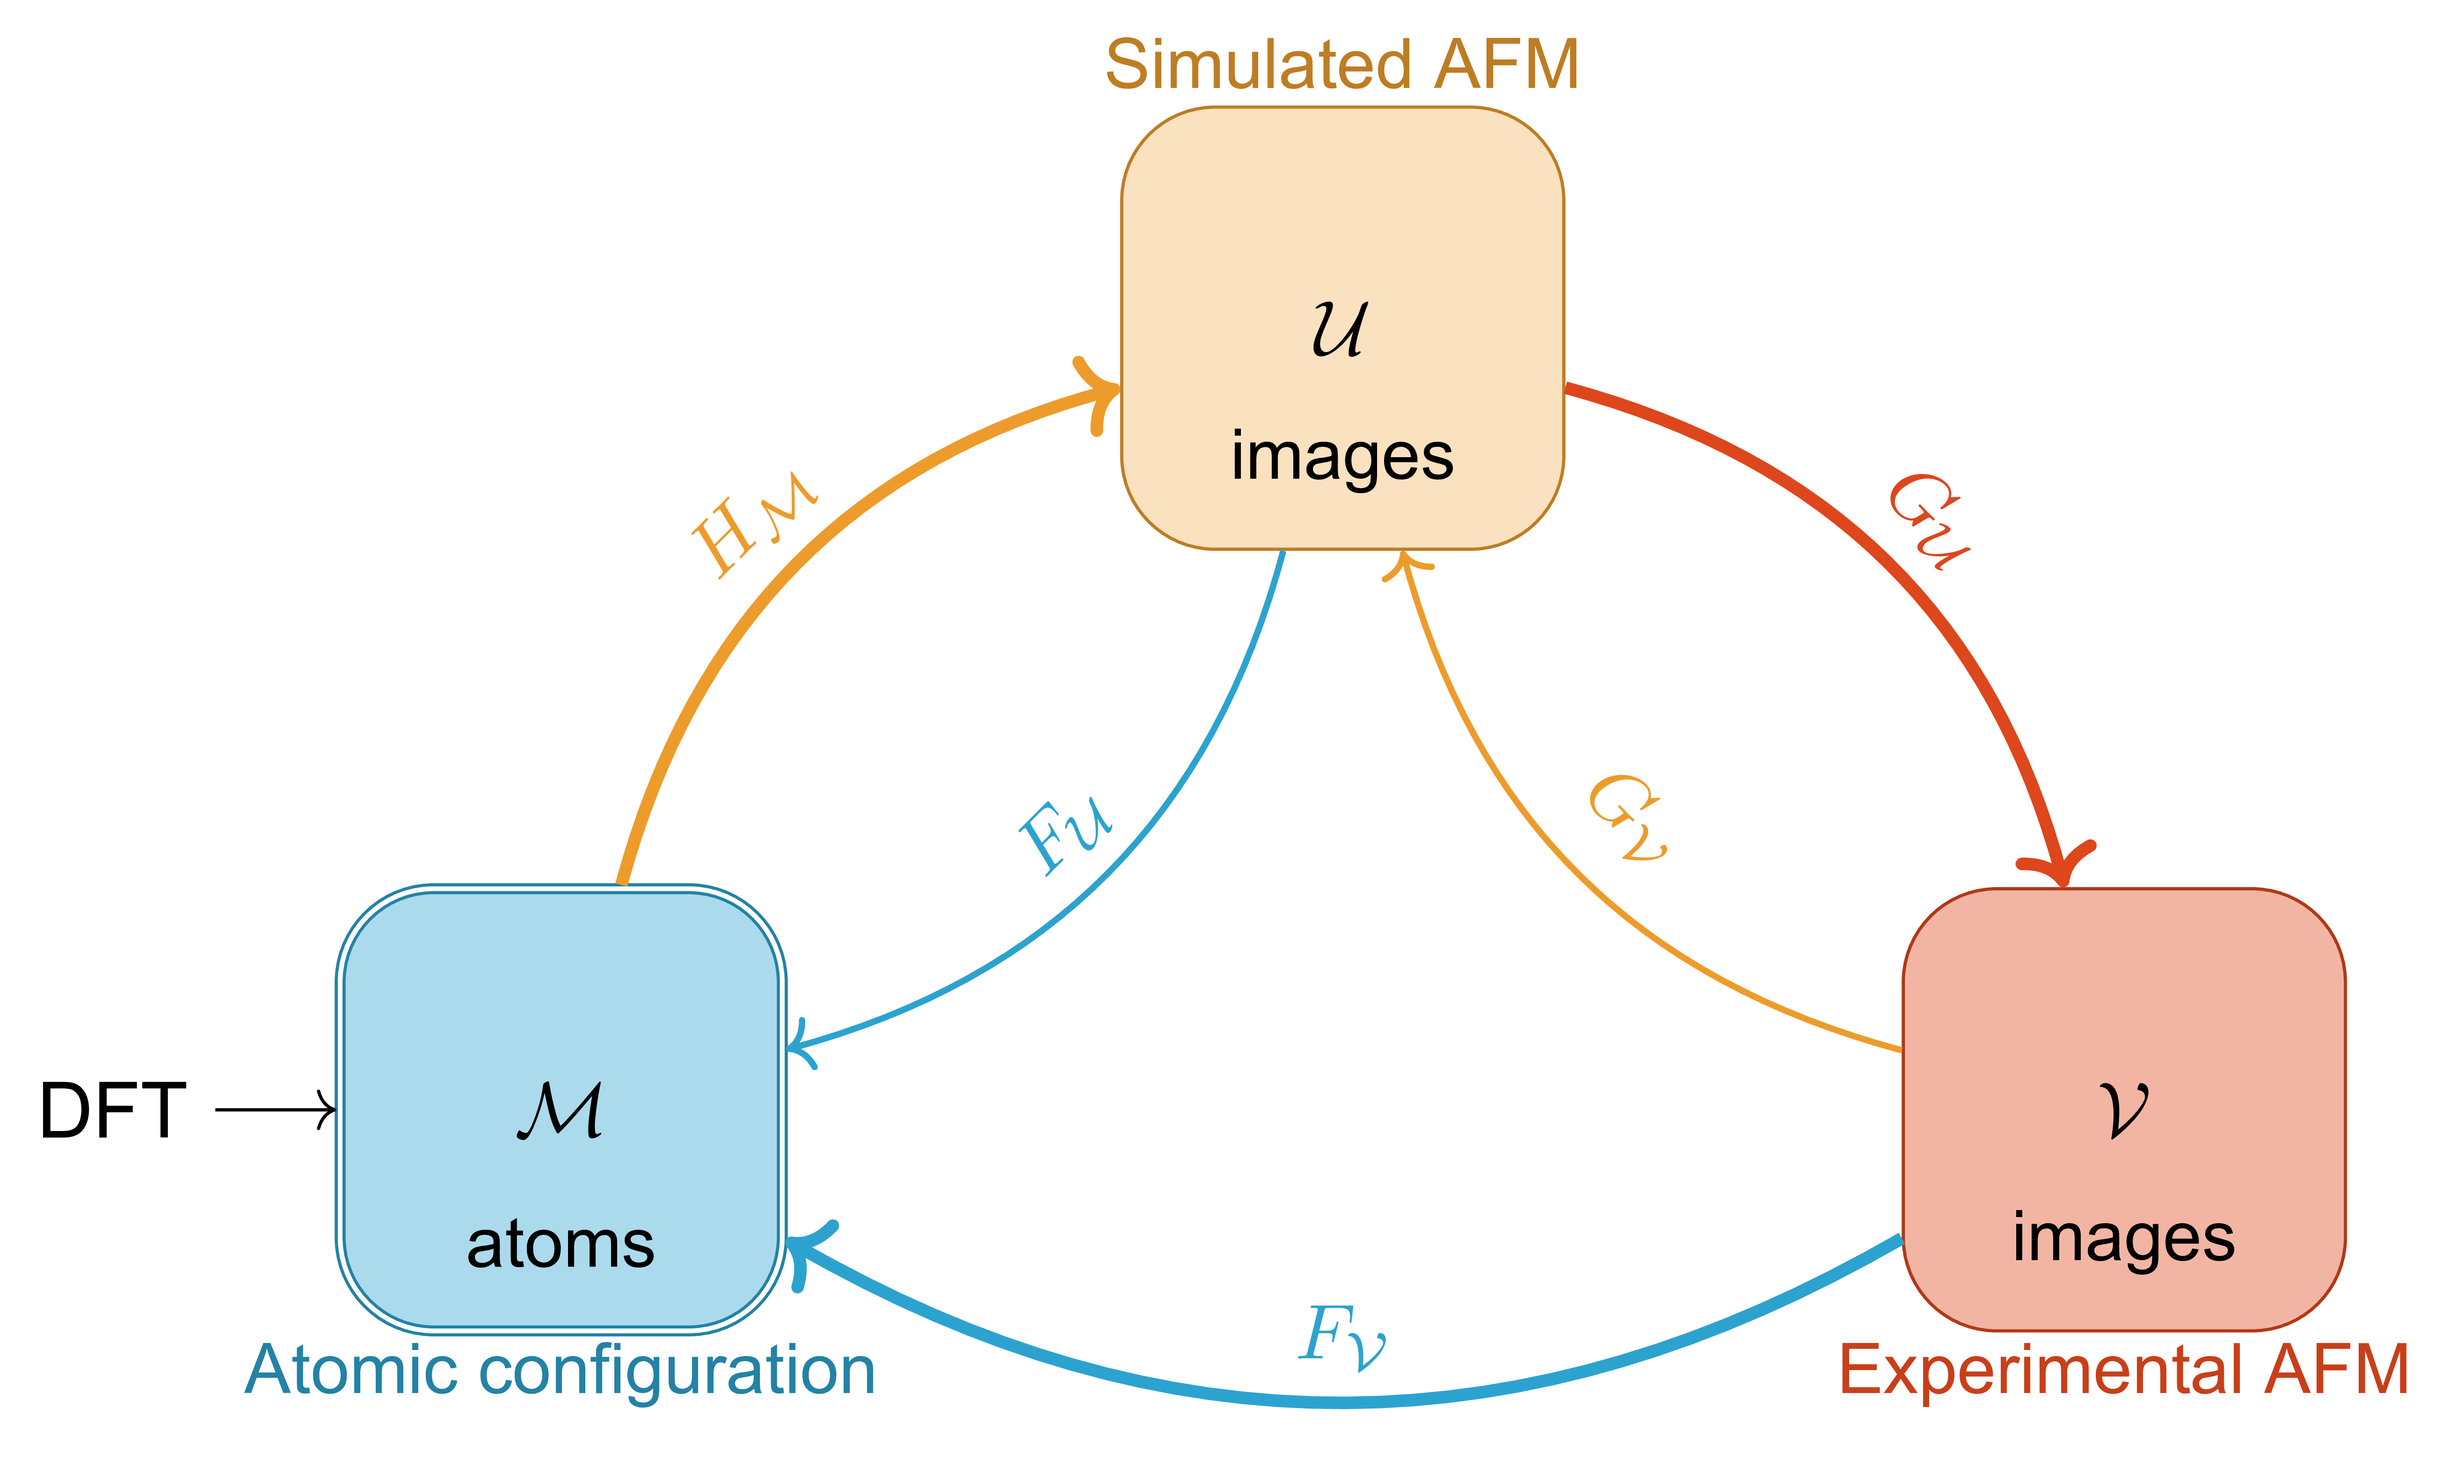
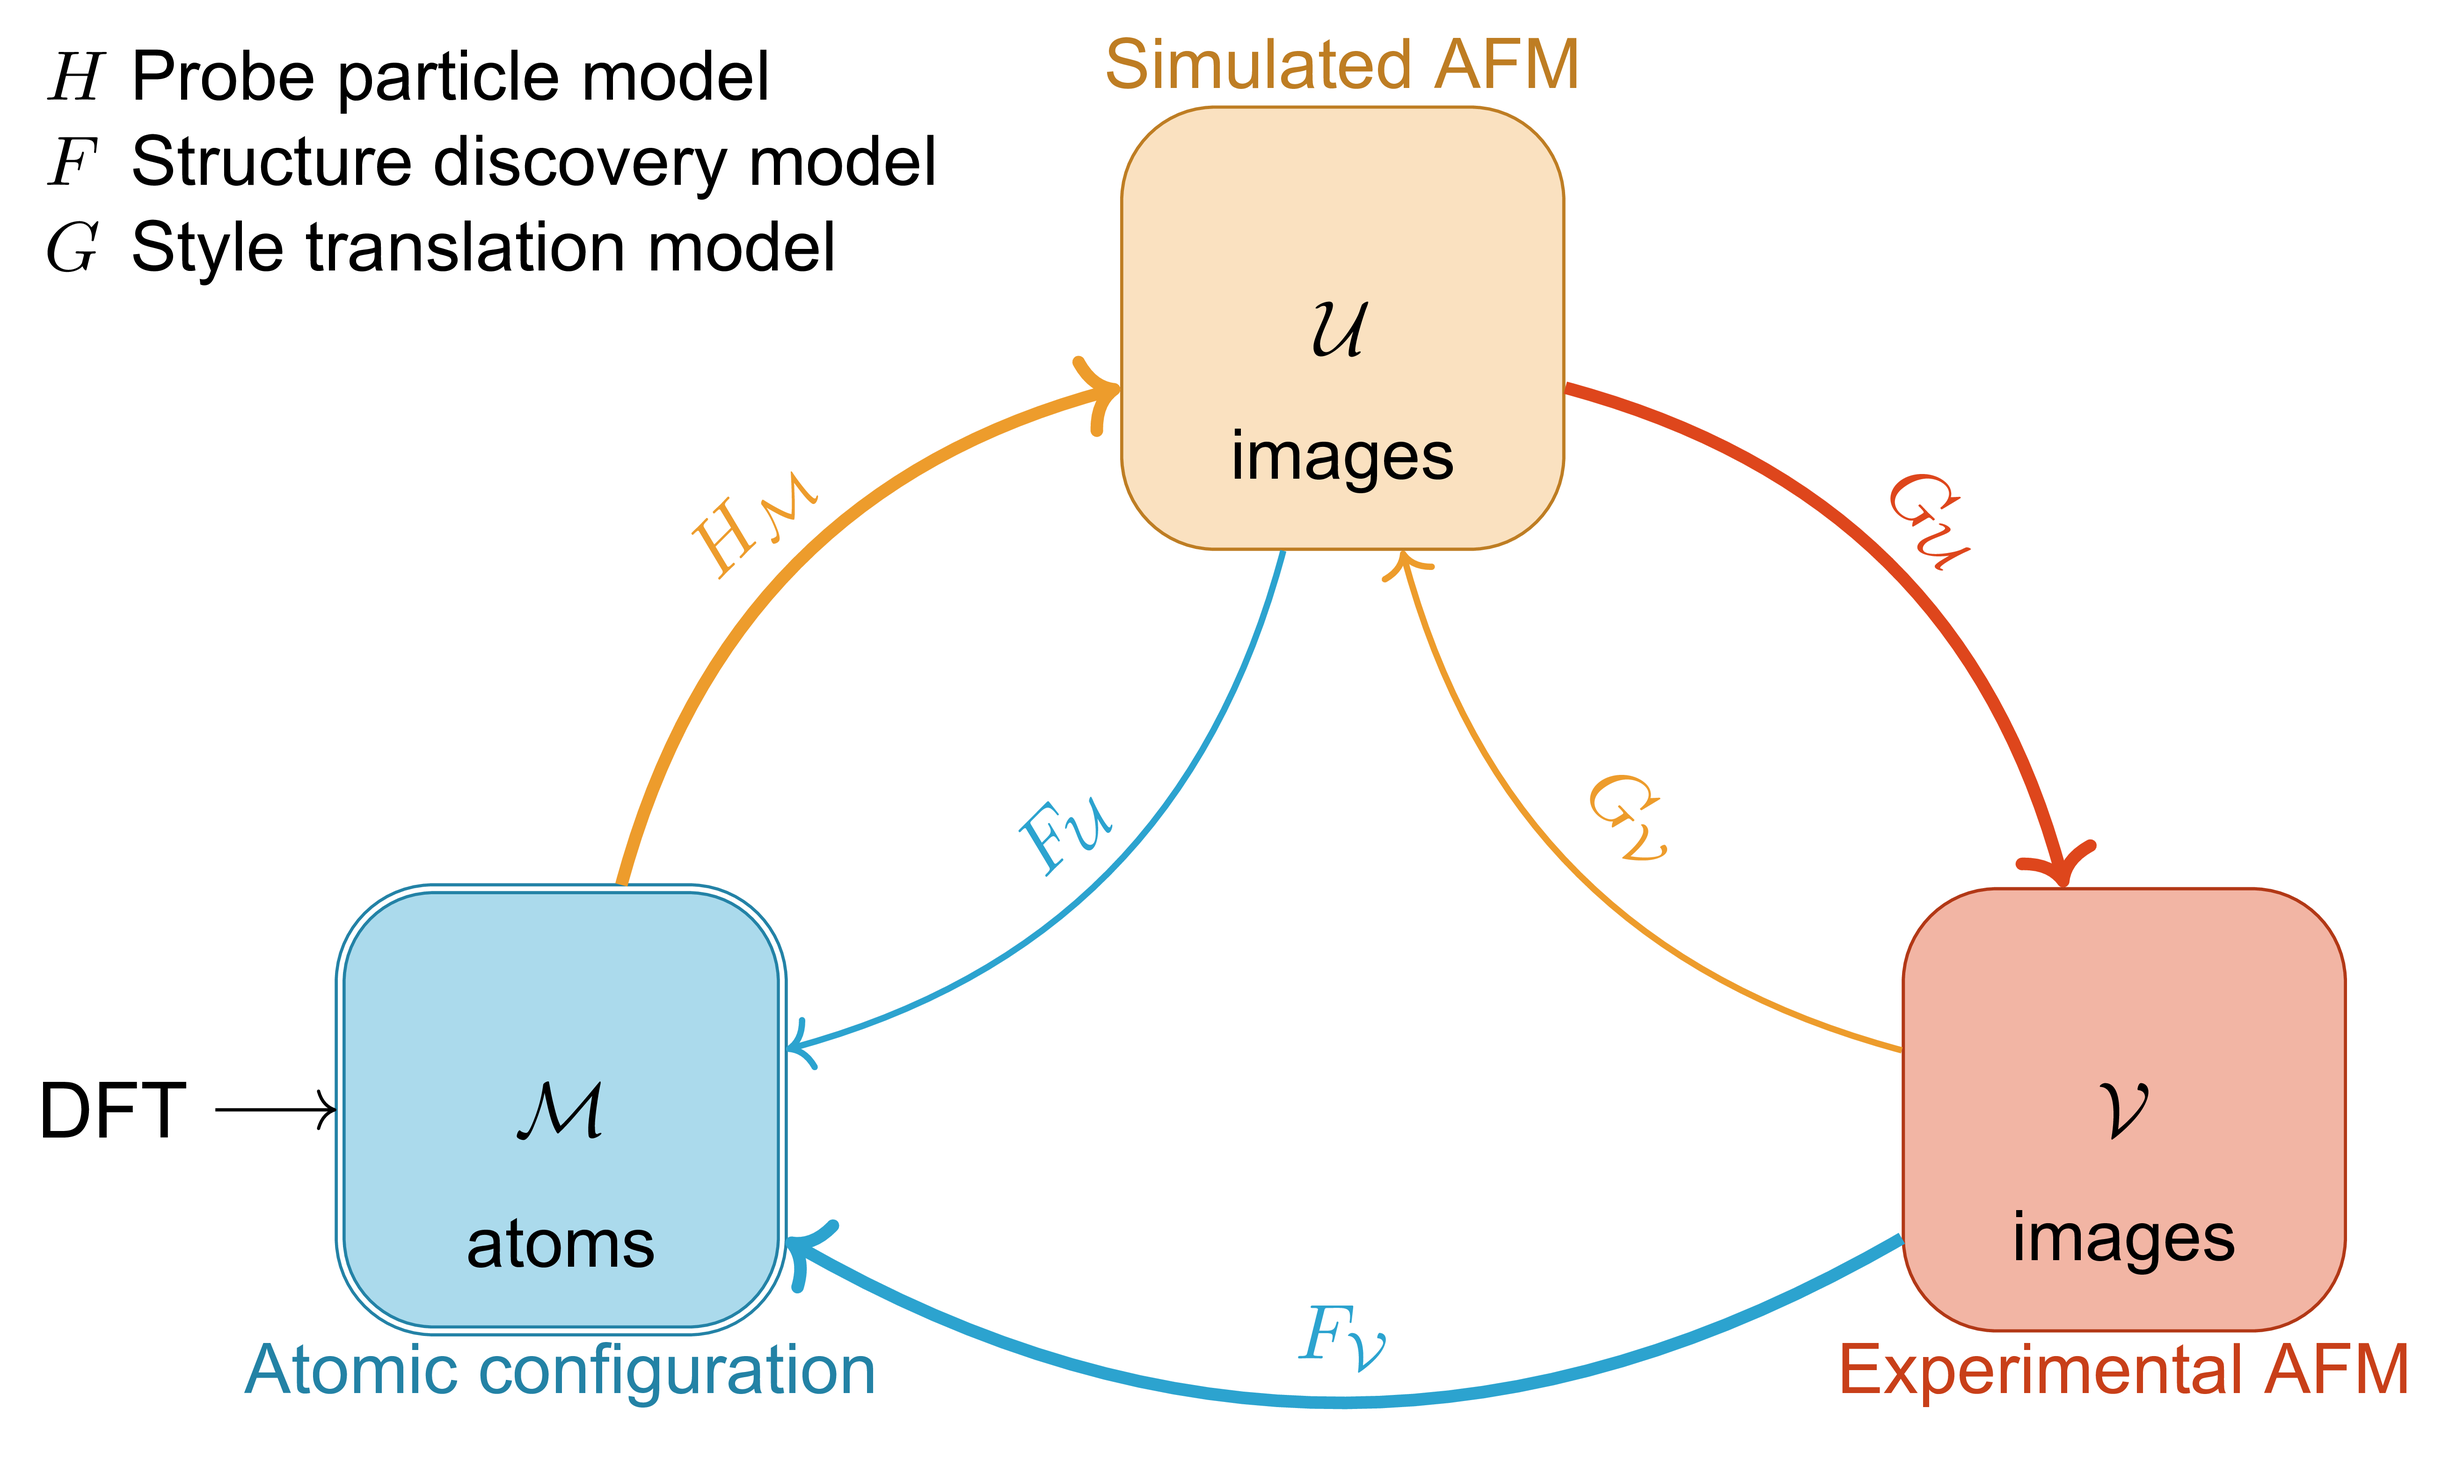
update overview

Changed region(s): [[0.0, 0.0933, 0.3737, 0.1244], [0.0311, 0.1556, 0.3426, 0.1867], [0.0311, 0.0311, 0.3114, 0.0622]]

diff --git a/manuscript/figures/overview.tex b/manuscript/figures/overview.tex
@@ -62,21 +62,27 @@
 		\path [VM]
 		(V)  edge [bend left]   node[sloped, above]    {$F_{\mathcal{V}}$}    (M);
 		
-%		% Legend
-%		\node[
-%		anchor=north west, align=left,
-%		draw=black, rounded corners,
-%		fill=white, opacity=0.95, text opacity=1,
-%		inner sep=6pt
-%		] at (current bounding box.north west) {
-%			\begin{tabular}{@{}l@{\hspace{0.5em}}l@{}}
-%				{\color{simcolor}\ensuremath{H_{\mathcal{M}}}} & \textcolor{simcolor}{Probe particle model} \\
-%				{\color{dftcolor}\ensuremath{F_{\mathcal{U}}}} & \textcolor{dftcolor}{Structure discovery} \\
-%				{\color{expcolor}\ensuremath{G_{\mathcal{U}}}} & \textcolor{expcolor}{Forward  translation} \\
-%				{\color{simcolor}\ensuremath{G_{\mathcal{V}}}} & \textcolor{simcolor}{Backward  translation} \\
-%				{\color{dftcolor}\ensuremath{F_{\mathcal{V}}}} & \textcolor{dftcolor}{Structure discovery} \\
-%			\end{tabular}
-%		};
-	\end{tikzpicture}
+	% Legend
+	\begin{scope}[shift={([xshift=-1.4cm,yshift=3.9cm]M.north west)}]
+		\node[
+		anchor=north west,
+		align=left,
+		%draw=black,
+		rounded corners,
+		fill=white,
+		opacity=0.5,
+		text opacity=1,
+		inner sep=2pt
+		] {
+			\small
+			\begin{tabular}{@{}l@{\hspace{0.3em}}l@{}}
+				$H$ & Probe particle model \\
+				$F$ & Structure discovery model \\
+				$G$ & Style translation model
+			\end{tabular}
+		};
+	\end{scope}
+
+\end{tikzpicture}
 	
 \end{document}
